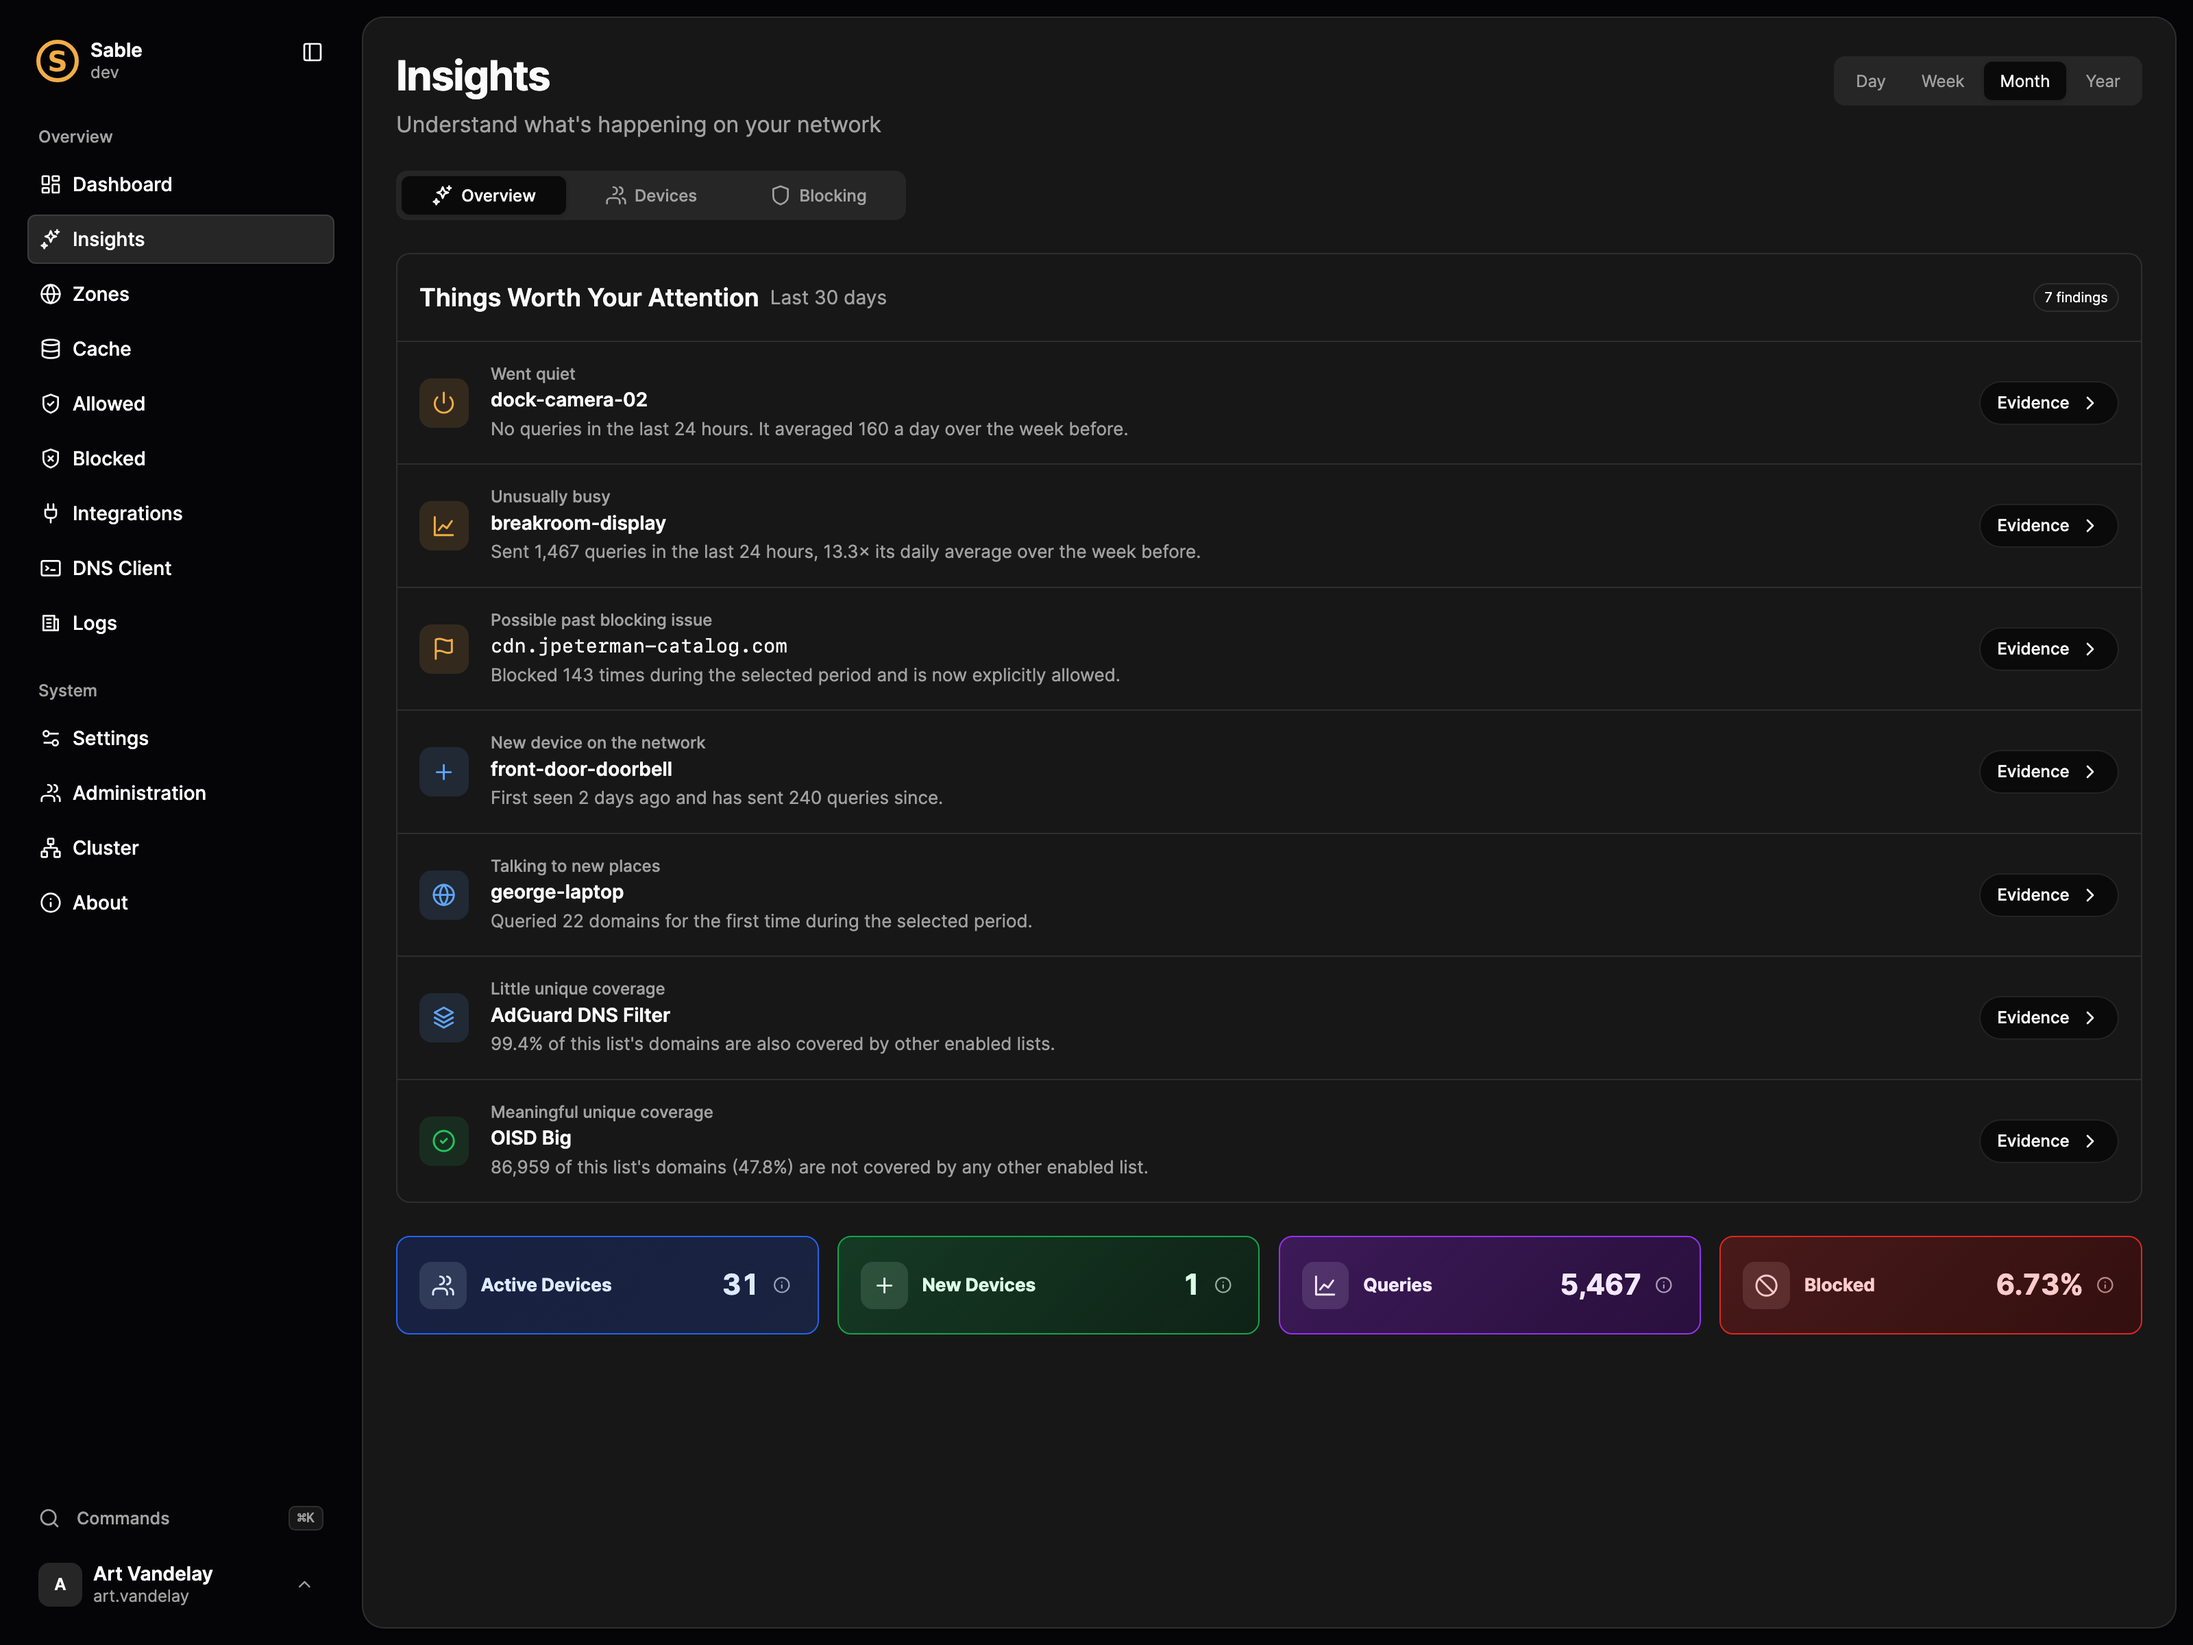
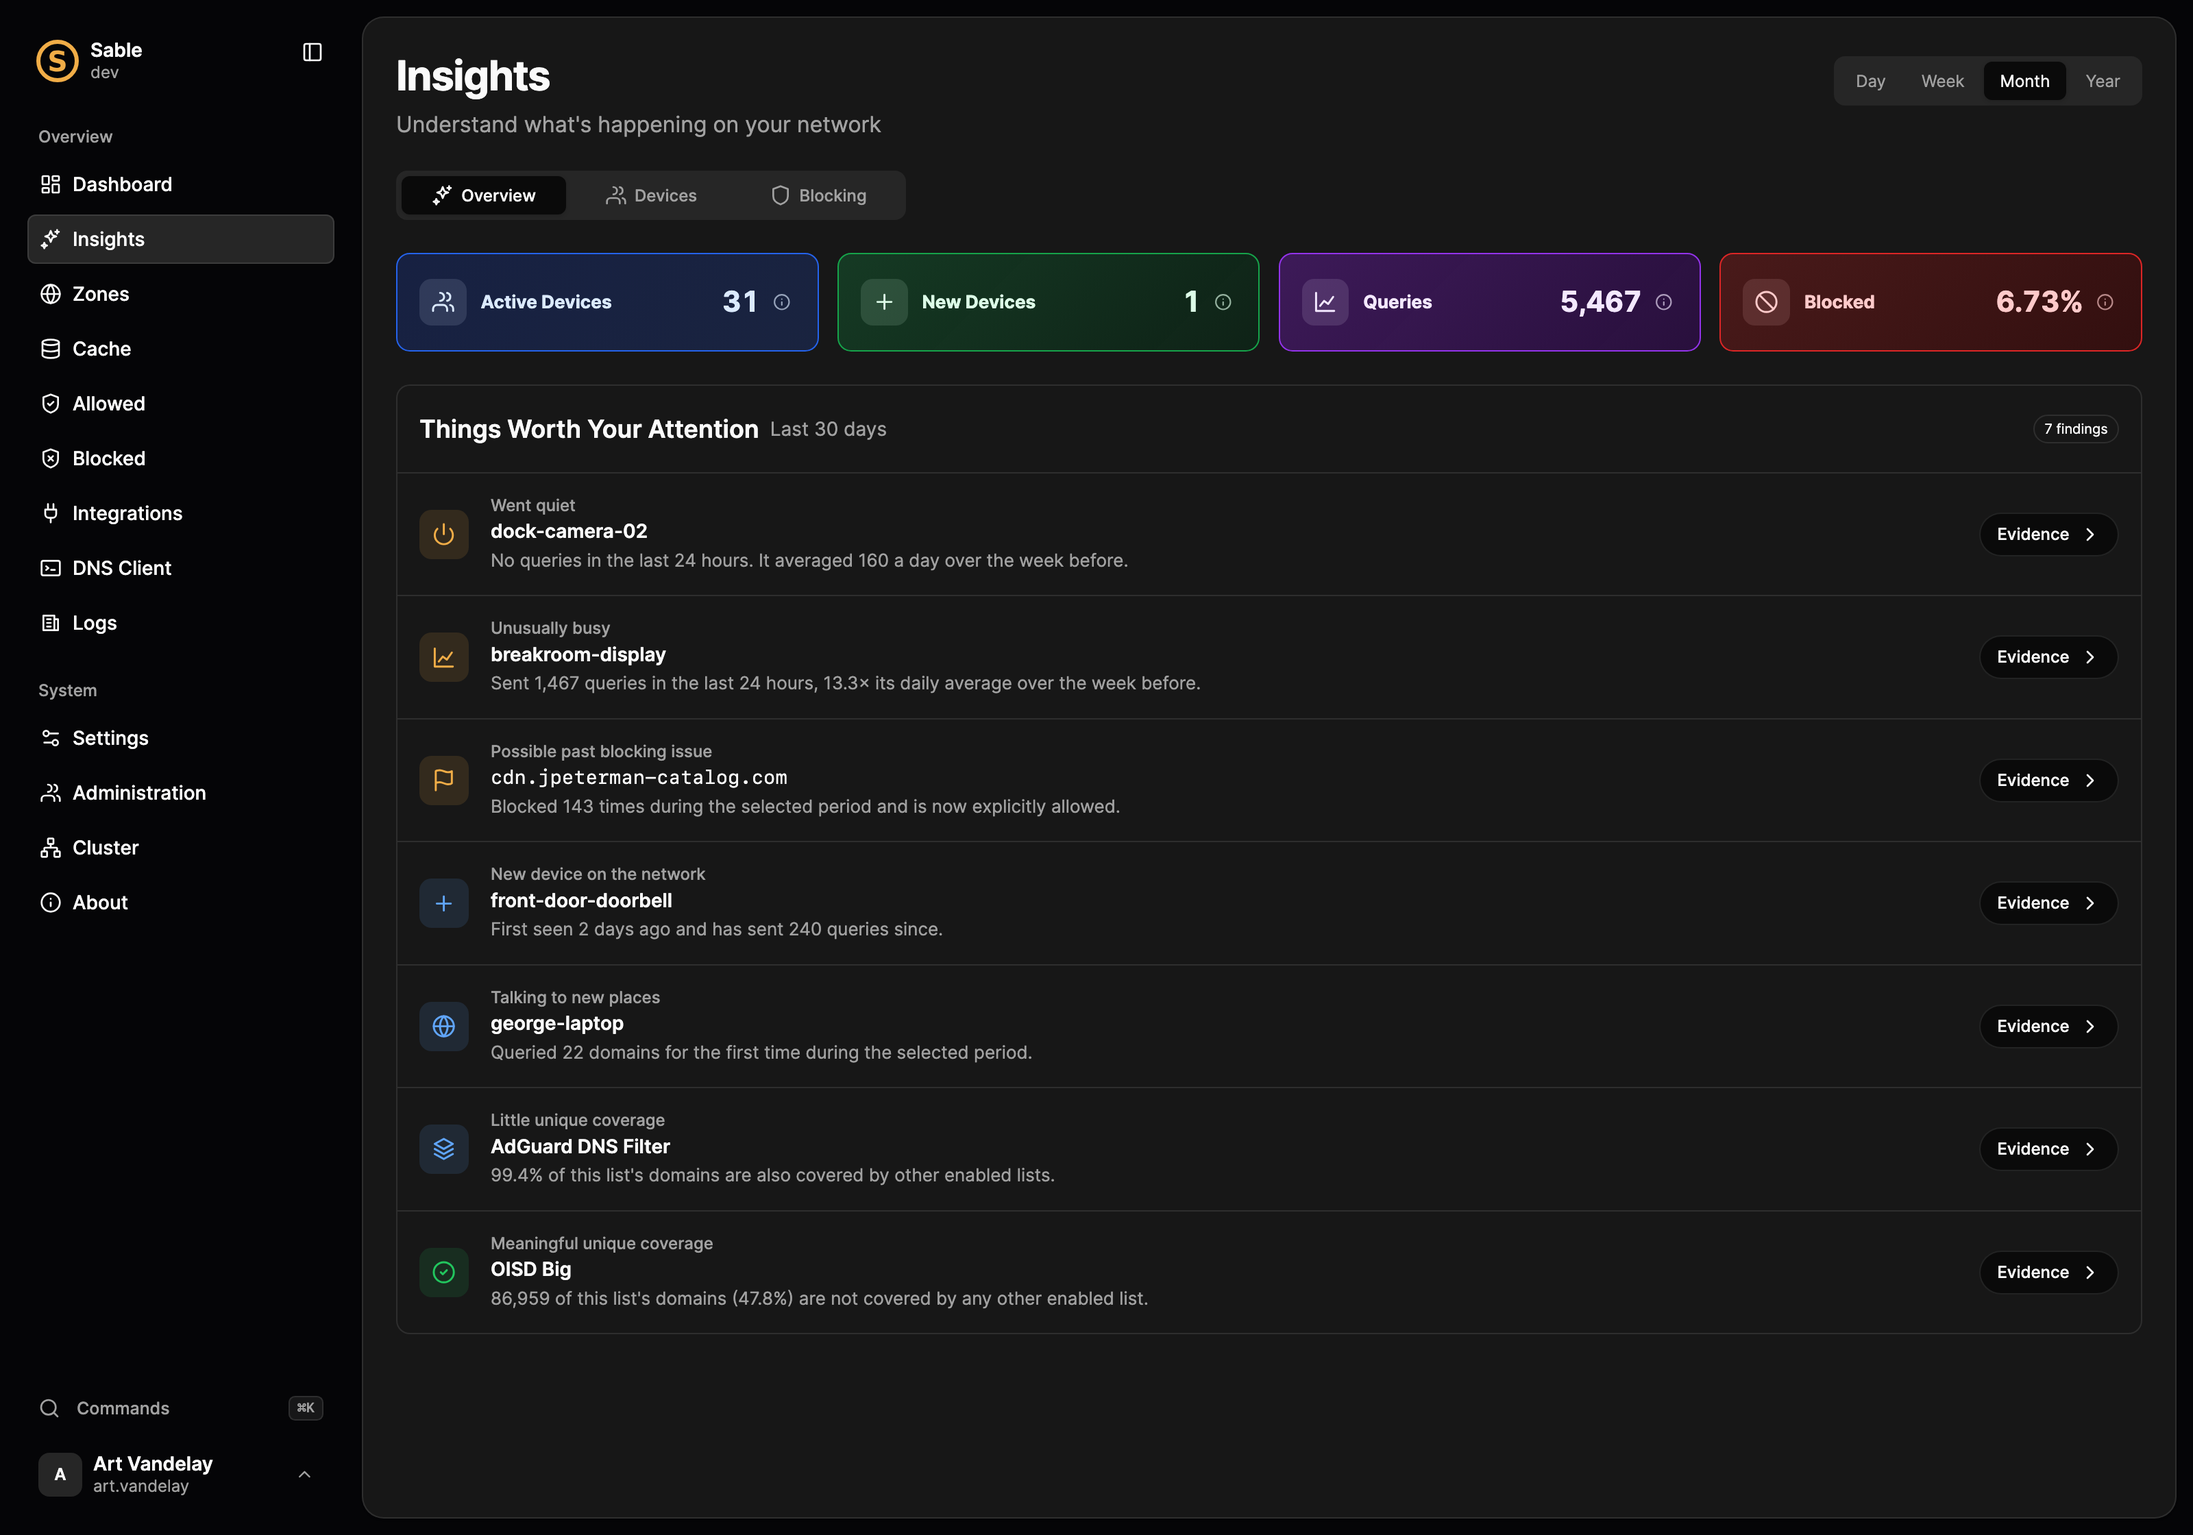
Tighten Insights findings on phones and lead Overview with metrics
On phones the Evidence button shrinks to a chevron and the whole finding row
opens the evidence; the label stays as the button's accessible name. The
Overview metrics now sit above Things Worth Your Attention, matching the
Blocking tab and the dashboard.

diff --git a/internal/web/assets/app.css b/internal/web/assets/app.css
@@ -3797,9 +3797,19 @@ a.insight-client-row:focus-visible { outline: 2px solid var(--ring); outline-off
 	.insights-range .range-select { width: 100%; }
 	.insight-metrics, .insight-metrics[data-metric-count="3"] { grid-template-columns: minmax(0, 1fr); }
 	.insight-metrics[data-metric-count="3"] > :last-child { grid-column: auto; }
-	.insight-finding { grid-template-columns: 2.25rem minmax(0, 1fr); align-items: start; }
+	.insight-finding { grid-template-columns: 2.25rem minmax(0, 1fr) 2rem; align-items: start; gap: .75rem; }
 	.insight-finding-copy strong { white-space: normal; overflow-wrap: anywhere; }
-	.insight-evidence-button { grid-column: 2; justify-self: start; }
+	/* On a phone the button shrinks to its chevron and stretches its tap area
+	   over the whole finding; the label stays as its accessible name. */
+	.insight-finding { position: relative; }
+	.insight-finding:has(.insight-evidence-button:hover) { background: color-mix(in oklch, var(--muted) 45%, transparent); }
+	.insight-finding .insight-evidence-button { position: static; width: 2rem; height: 2rem; align-self: center; justify-content: center; border-color: transparent; background: transparent; padding: 0; box-shadow: none; }
+	.insight-finding .insight-evidence-button::after { position: absolute; inset: 0; content: ""; }
+	.insight-finding .insight-evidence-button:hover { background: transparent; }
+	.insight-finding .insight-evidence-button:focus-visible { outline: none; }
+	.insight-finding:has(.insight-evidence-button:focus-visible) { outline: 2px solid var(--ring); outline-offset: -2px; }
+	.insight-evidence-button > span { position: absolute; width: 1px; height: 1px; overflow: hidden; clip: rect(0 0 0 0); white-space: nowrap; }
+	.insight-evidence-button .nav-icon { width: 1rem; height: 1rem; color: var(--muted-foreground); }
 }
 
 html:not([data-passkeys-supported]) [data-passkey-capability] { display: none !important; }

diff --git a/internal/web/pages/insights_templ.go b/internal/web/pages/insights_templ.go
@@ -513,7 +513,7 @@ func InsightsContent(view InsightsOverviewView) templ.Component {
 			if templ_7745c5c3_Err != nil {
 				return templ_7745c5c3_Err
 			}
-			templ_7745c5c3_Err = InsightFindings(view).Render(ctx, templ_7745c5c3_Buffer)
+			templ_7745c5c3_Err = insightsOverviewMetrics(view).Render(ctx, templ_7745c5c3_Buffer)
 			if templ_7745c5c3_Err != nil {
 				return templ_7745c5c3_Err
 			}
@@ -521,7 +521,7 @@ func InsightsContent(view InsightsOverviewView) templ.Component {
 			if templ_7745c5c3_Err != nil {
 				return templ_7745c5c3_Err
 			}
-			templ_7745c5c3_Err = insightsOverviewMetrics(view).Render(ctx, templ_7745c5c3_Buffer)
+			templ_7745c5c3_Err = InsightFindings(view).Render(ctx, templ_7745c5c3_Buffer)
 			if templ_7745c5c3_Err != nil {
 				return templ_7745c5c3_Err
 			}
@@ -649,40 +649,40 @@ func insightsSkeleton(view InsightsOverviewView) templ.Component {
 			templ_7745c5c3_Var14 = templ.NopComponent
 		}
 		ctx = templ.ClearChildren(ctx)
-		templ_7745c5c3_Err = templruntime.WriteString(templ_7745c5c3_Buffer, 39, "<div class=\"insights-skeleton\" role=\"status\" aria-live=\"polite\" aria-busy=\"true\"><span class=\"sr-only\">Analyzing your network…</span><section class=\"card insight-findings insight-findings-skeleton\" aria-hidden=\"true\"><header class=\"isotope-data-header\"><div><h2>Things Worth Your Attention</h2><span class=\"desktop-only\">")
+		templ_7745c5c3_Err = templruntime.WriteString(templ_7745c5c3_Buffer, 39, "<div class=\"insights-skeleton\" role=\"status\" aria-live=\"polite\" aria-busy=\"true\"><span class=\"sr-only\">Analyzing your network…</span><div class=\"operational-metric-grid insight-metrics\" aria-hidden=\"true\">")
+		if templ_7745c5c3_Err != nil {
+			return templ_7745c5c3_Err
+		}
+		for range 4 {
+			templ_7745c5c3_Err = templruntime.WriteString(templ_7745c5c3_Buffer, 40, "<div class=\"operational-metric insight-metric-skeleton\"><span class=\"insights-skeleton-block\"></span></div>")
+			if templ_7745c5c3_Err != nil {
+				return templ_7745c5c3_Err
+			}
+		}
+		templ_7745c5c3_Err = templruntime.WriteString(templ_7745c5c3_Buffer, 41, "</div><section class=\"card insight-findings insight-findings-skeleton\" aria-hidden=\"true\"><header class=\"isotope-data-header\"><div><h2>Things Worth Your Attention</h2><span class=\"desktop-only\">")
 		if templ_7745c5c3_Err != nil {
 			return templ_7745c5c3_Err
 		}
 		var templ_7745c5c3_Var15 string
 		templ_7745c5c3_Var15, templ_7745c5c3_Err = templ.JoinStringErrs(view.RangeLabel)
 		if templ_7745c5c3_Err != nil {
-			return templ.Error{Err: templ_7745c5c3_Err, FileName: `insights.templ`, Line: 299, Col: 124}
+			return templ.Error{Err: templ_7745c5c3_Err, FileName: `insights.templ`, Line: 304, Col: 124}
 		}
 		_, templ_7745c5c3_Err = templ_7745c5c3_Buffer.WriteString(templ.EscapeString(templ_7745c5c3_Var15))
 		if templ_7745c5c3_Err != nil {
 			return templ_7745c5c3_Err
 		}
-		templ_7745c5c3_Err = templruntime.WriteString(templ_7745c5c3_Buffer, 40, "</span></div></header>")
+		templ_7745c5c3_Err = templruntime.WriteString(templ_7745c5c3_Buffer, 42, "</span></div></header>")
 		if templ_7745c5c3_Err != nil {
 			return templ_7745c5c3_Err
 		}
 		for range 3 {
-			templ_7745c5c3_Err = templruntime.WriteString(templ_7745c5c3_Buffer, 41, "<div class=\"insight-finding\"><span class=\"insight-finding-icon insights-skeleton-block\"></span><div class=\"insight-finding-copy\"><span class=\"insight-skeleton-title insights-skeleton-block\"></span> <span class=\"insight-skeleton-line insights-skeleton-block\"></span></div></div>")
+			templ_7745c5c3_Err = templruntime.WriteString(templ_7745c5c3_Buffer, 43, "<div class=\"insight-finding\"><span class=\"insight-finding-icon insights-skeleton-block\"></span><div class=\"insight-finding-copy\"><span class=\"insight-skeleton-title insights-skeleton-block\"></span> <span class=\"insight-skeleton-line insights-skeleton-block\"></span></div></div>")
 			if templ_7745c5c3_Err != nil {
 				return templ_7745c5c3_Err
 			}
 		}
-		templ_7745c5c3_Err = templruntime.WriteString(templ_7745c5c3_Buffer, 42, "</section><div class=\"operational-metric-grid insight-metrics\" aria-hidden=\"true\">")
-		if templ_7745c5c3_Err != nil {
-			return templ_7745c5c3_Err
-		}
-		for range 4 {
-			templ_7745c5c3_Err = templruntime.WriteString(templ_7745c5c3_Buffer, 43, "<div class=\"operational-metric insight-metric-skeleton\"><span class=\"insights-skeleton-block\"></span></div>")
-			if templ_7745c5c3_Err != nil {
-				return templ_7745c5c3_Err
-			}
-		}
-		templ_7745c5c3_Err = templruntime.WriteString(templ_7745c5c3_Buffer, 44, "</div></div>")
+		templ_7745c5c3_Err = templruntime.WriteString(templ_7745c5c3_Buffer, 44, "</section></div>")
 		if templ_7745c5c3_Err != nil {
 			return templ_7745c5c3_Err
 		}

diff --git a/scripts/demo/capture.go b/scripts/demo/capture.go
@@ -28,7 +28,7 @@ var shots = []shot{
 	{"profile-passkeys.png", "/profile", 1600, 1500},
 	{"dashboard.png", "/", 1600, 1000},
 	{"dashboard-full.png", "/", 1600, 1400},
-	{"insights.png", "/insights", 1600, 1200},
+	{"insights.png", "/insights", 1600, 1120},
 	{"insights-devices.png", "/insights?tab=devices", 1600, 1000},
 	{"insights-blocking.png", "/insights?tab=blocking", 1600, 1180},
 	{"blocking.png", "/blocked", 1600, 880},
